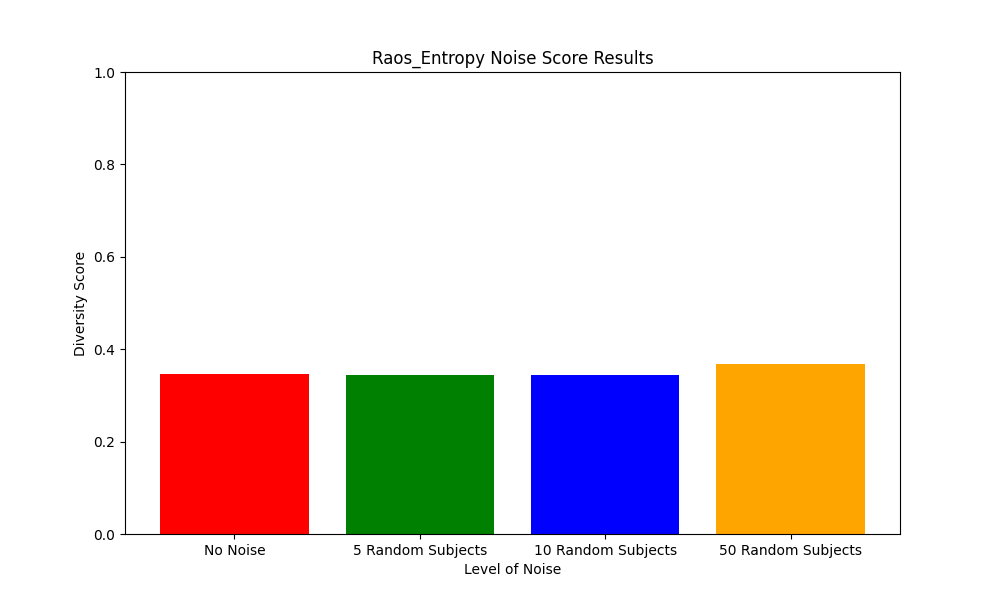
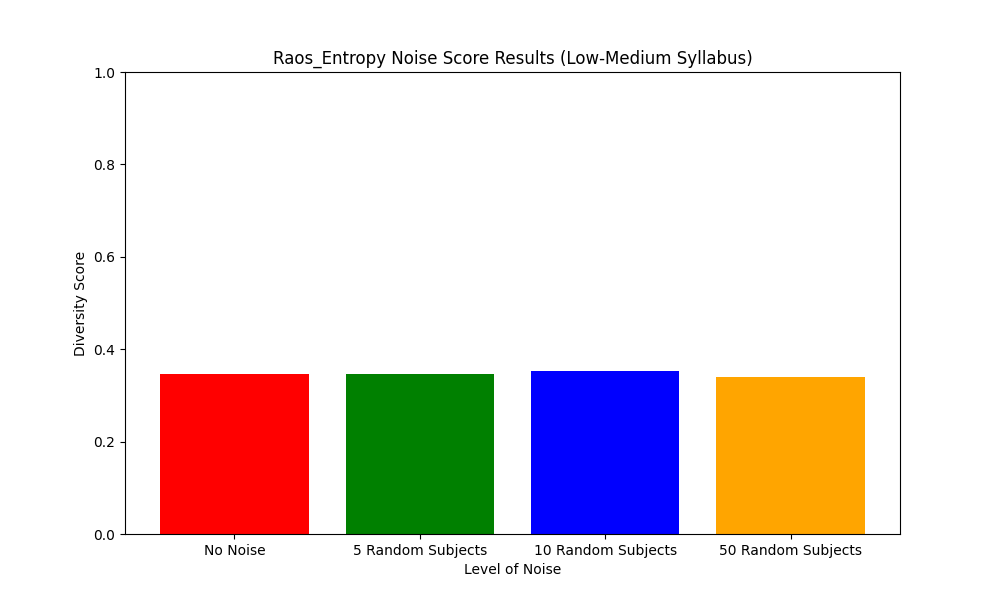
perturb for medium high syllabi as well

Changed region(s): [[0.279, 0.09, 0.744, 0.12], [0.713, 0.6, 0.868, 0.63], [0.527, 0.6, 0.682, 0.63]]

diff --git a/backend/pipeline.py b/backend/pipeline.py
@@ -656,11 +656,11 @@ def perturb_data(measure):
     # Plotting the bar chart
     plt.figure(figsize=(10, 6))
     plt.bar(scores.keys(), scores.values(), color=['red', 'green', 'blue', 'orange'])
-    plt.title(f'{measure.title()} Noise Score Results')
+    plt.title(f'{measure.title()} Noise Score Results (Medium-High Syllabus)')
     plt.xlabel('Level of Noise')
     plt.ylabel('Diversity Score')
     plt.ylim(0, 1)
-    plt.savefig(f'{measure}_noise.png')
+    plt.savefig(f'{measure}_noise2.png')
     
     
     
@@ -689,8 +689,8 @@ if __name__ == "__main__":
     
     
     # Testing Durability
-    # perturb_data('raos_entropy')
-    # perturb_data('jaccard_distance')
+    perturb_data('raos_entropy')
+    perturb_data('jaccard_distance')
     # perturb_data('relevance_proportion')
     perturb_data('breadth_proportion')
      
